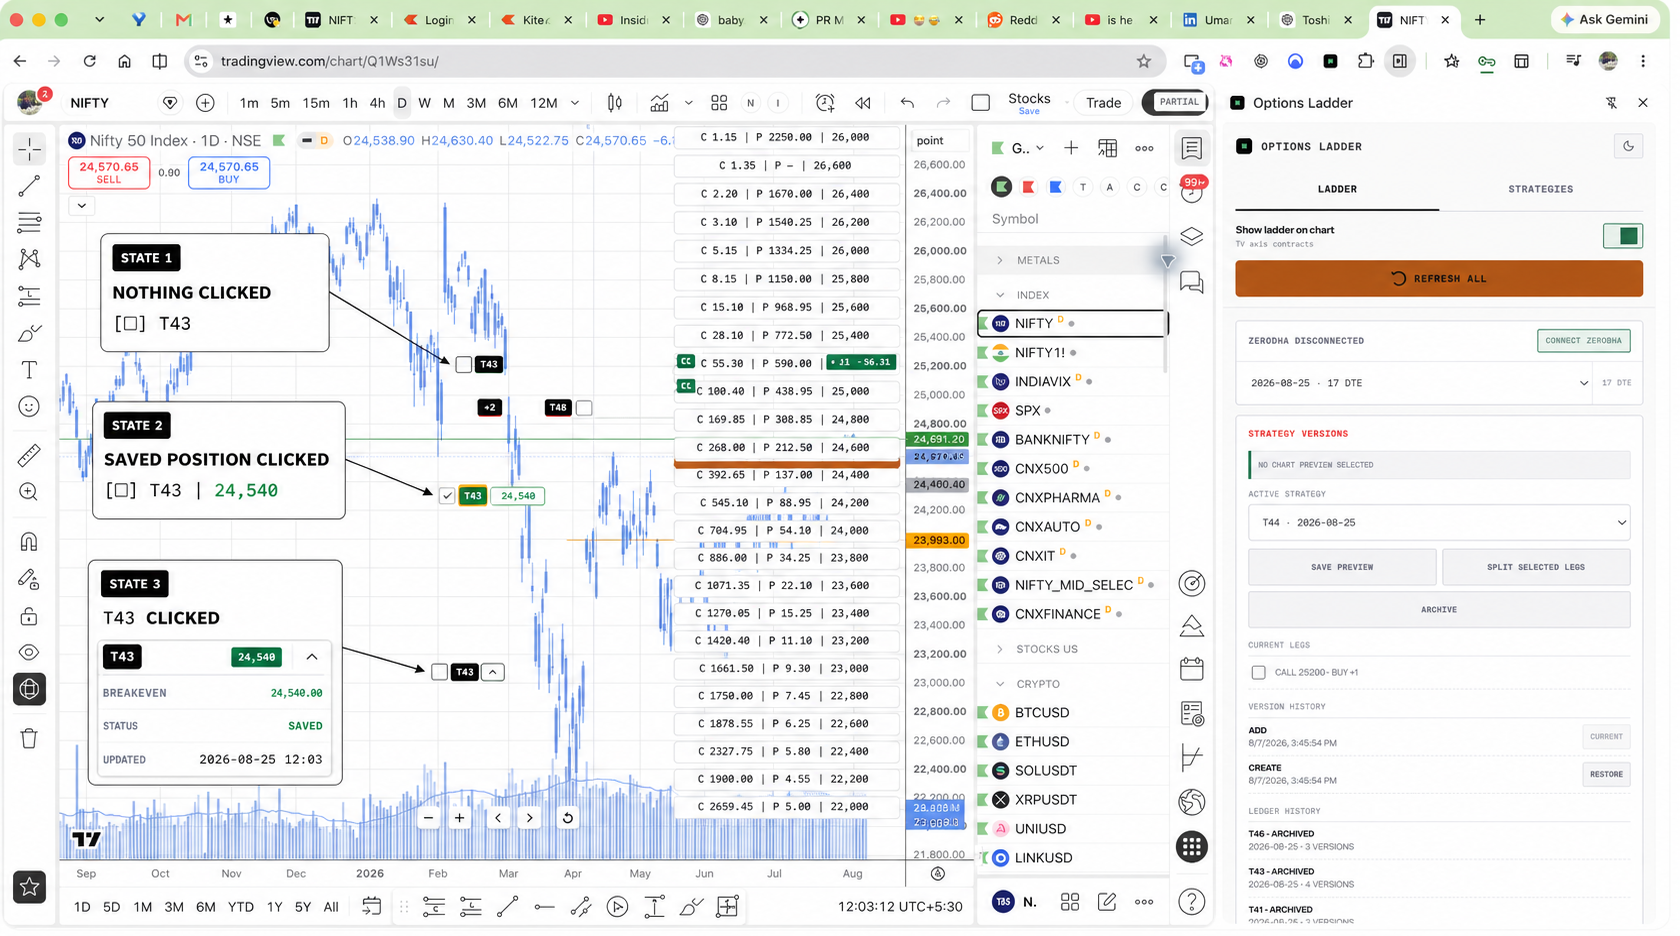
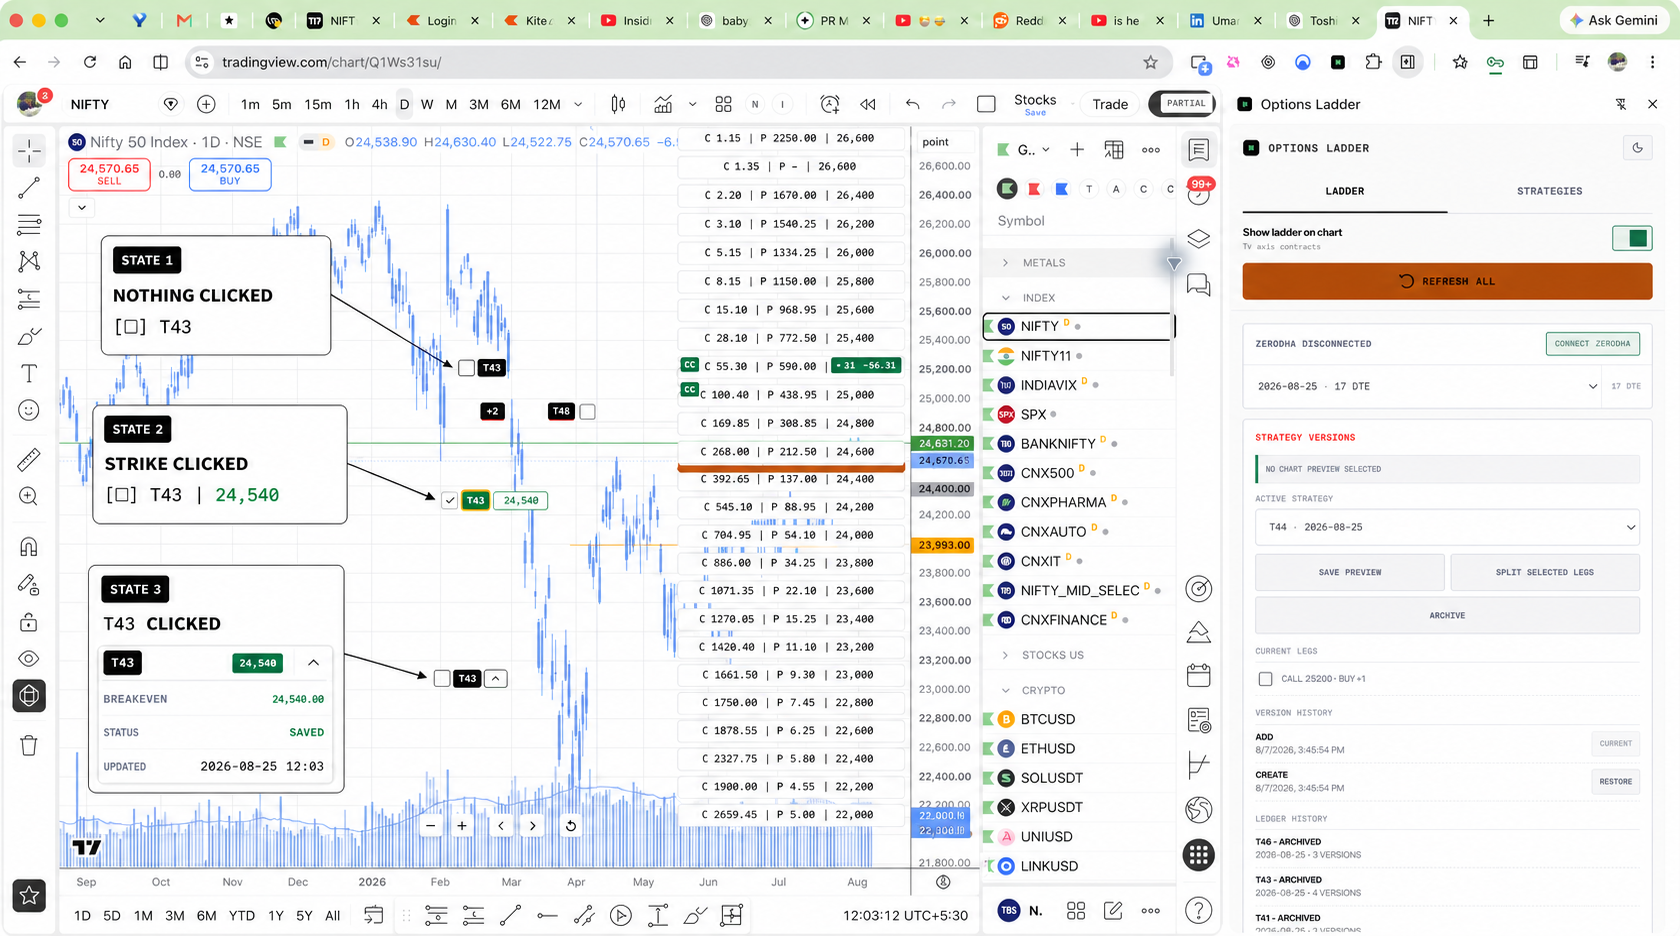
docs(features): clarify strike-click trigger

diff --git a/docs/superpowers/specs/options-ladder-canonical-approved-features.md b/docs/superpowers/specs/options-ladder-canonical-approved-features.md
@@ -19,9 +19,9 @@ Example:
 
 `[checkbox] T43`
 
-### When the associated saved strike/position is clicked
+### When the associated strike is clicked
 
-When the user clicks the saved strike/position associated with the strategy:
+When the user clicks the strike associated with the strategy:
 
 - Keep the checkbox + strategy tag.
 - Add the strategy breakeven price beside it.
